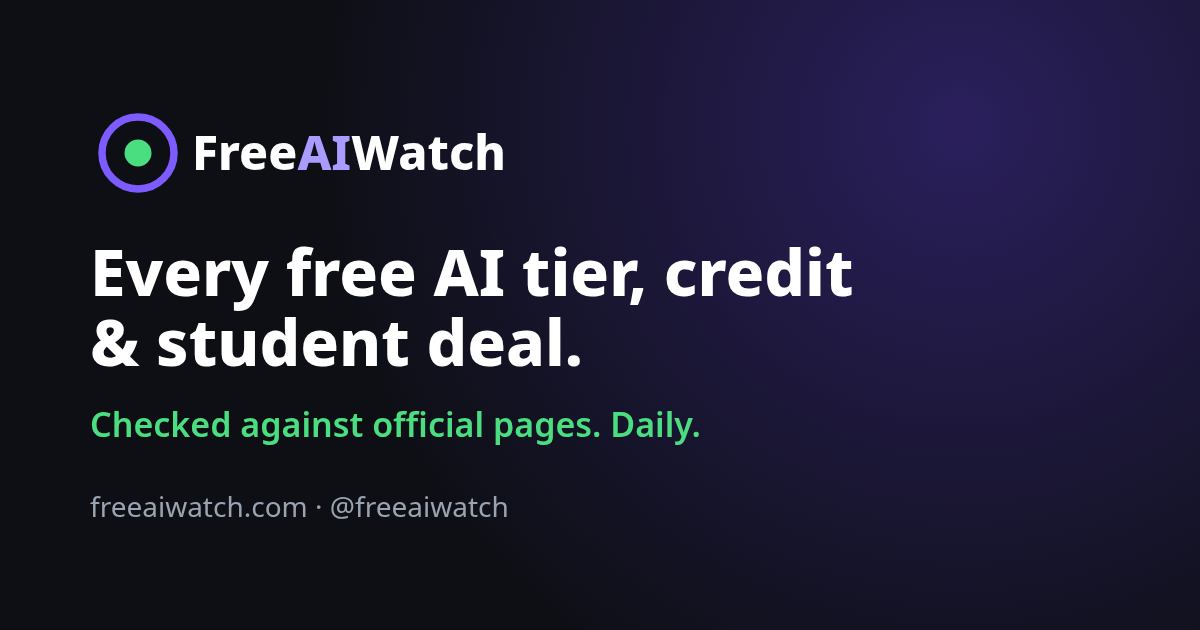
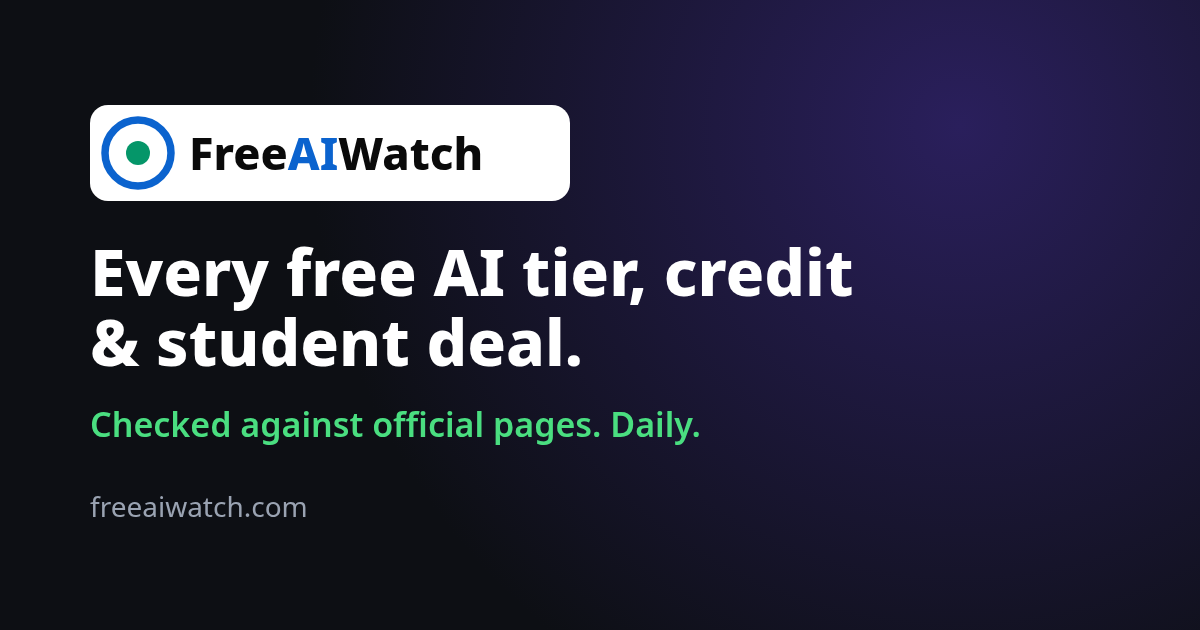
Sponsor click tracking (/go/[slug], /api/admin/clicks, click_report.py), founding sponsor copy + prices, drop @freeaiwatch handle from meta/OG

Changed region(s): [[0.0617, 0.1508, 0.4933, 0.3317], [0.2775, 0.7841, 0.4317, 0.8444]]

diff --git a/sponsor.html b/sponsor.html
@@ -8,25 +8,33 @@
 <h3>Audience</h3>
 <div class="stats">
   <div class="stat"><span class="stat-label">Offers tracked</span><span class="stat-value" id="st-offers">—</span></div>
-  <div class="stat"><span class="stat-label">Monthly visitors</span><span class="stat-value">TBD</span></div>
-  <div class="stat"><span class="stat-label">Weekly digest subscribers</span><span class="stat-value">TBD</span></div>
+  <div class="stat"><span class="stat-label">Monthly visitors</span><span class="stat-value small">Publishing after our first full month of analytics</span></div>
+  <div class="stat"><span class="stat-label">Weekly digest subscribers</span><span class="stat-value small">Publishing once the digest starts sending</span></div>
 </div>
 <p class="muted small">We'll publish real traffic numbers once analytics have a full month of data. We won't show estimates in the meantime.</p>
 
+<h3>Founding sponsors</h3>
+<div class="card founding"><p class="eyebrow">Founding Sponsor Pack · 4 available · ends Nov 30, 2026</p>
+<p>We're new and don't have traffic numbers yet, so founding rates are low and backed by a click floor. You get 2 weeks in the Featured row and 1 week on the homepage banner. We write your copy, give you a tracked link and send a weekly click report. You also get one labeled sponsored post on our X deals feed, and a digest line if the digest is live during your run.</p>
+<p class="price"><b>$179</b> <span class="muted">(à la carte $207)</span></p>
+<p class="muted small">Founding rates are locked through May 31, 2027 if you rebook within 30 days.</p>
+<p class="small"><b>Click floor:</b> under 25 counted clicks in a Featured row week (15 for the banner) gets you an extra week free. If that week misses too, we refund the original week.</p></div>
+
 <h3>Slots</h3>
 <div class="tiers">
-  <div class="tier"><p class="eyebrow">Featured row</p><h4>Top of the offers table</h4><div class="preview"><span class="badge">Sponsored</span> <b>Your tool</b>: your free offer, one line</div><ul><li>Pinned above the verified list on the homepage</li><li>Marked “Sponsored”. Your offer still has to be real and checkable</li><li>One sponsor at a time</li></ul><p class="price">Price: <b>TBD</b> / week</p></div>
-  <div class="tier"><p class="eyebrow">Homepage banner</p><h4>Banner under the header</h4><div class="preview banner-prev">⭐ <b>Your brand</b>: a short pitch and a link</div><ul><li>Shown on every page load of the homepage</li><li>Your link, tagged with utm_source=freeaiwatch</li><li>One sponsor at a time</li></ul><p class="price">Price: <b>TBD</b> / week</p></div>
-  <div class="tier"><p class="eyebrow">Weekly digest</p><h4>“Sponsored by” in the email</h4><div class="preview">Sponsored by <b>Your brand</b>: your pitch</div><ul><li>One line at the top of the weekly roundup</li><li>Goes to every subscriber that week</li><li>Available once the digest starts sending</li></ul><p class="price">Price: <b>TBD</b> / issue</p></div>
+  <div class="tier"><p class="eyebrow">Featured row</p><h4>Top of the offers table</h4><div class="preview"><span class="badge">Sponsored</span> <b>Your tool</b>: your free offer, one line</div><ul><li>Pinned above the verified list on the homepage</li><li>Marked “Sponsored”. Your offer still has to be real and checkable</li><li>One sponsor at a time</li></ul><p class="price">Founding rate: <b>$79</b> / week</p></div>
+  <div class="tier"><p class="eyebrow">Homepage banner</p><h4>Banner under the header</h4><div class="preview banner-prev">⭐ <b>Your brand</b>: a short pitch and a link</div><ul><li>Shown on every page load of the homepage</li><li>Your link, tagged with utm_source=freeaiwatch</li><li>One sponsor at a time</li></ul><p class="price">Founding rate: <b>$49</b> / week</p></div>
+  <div class="tier"><p class="eyebrow">Weekly digest</p><h4>“Sponsored by” in the email</h4><div class="preview">Sponsored by <b>Your brand</b>: your pitch</div><ul><li>One line at the top of the weekly roundup</li><li>Goes to every subscriber that week</li><li>Available once the digest starts sending</li></ul><p class="price">Not on sale until the digest sends. Included free in Founding Packs</p></div>
 </div>
-<p class="muted small">Sponsorship never changes rankings, verification status or the “not stated” labels. Prices are placeholders until launch.</p>
+<p class="muted small">Sponsorship never changes rankings, verification status or the “not stated” labels. Founding rates apply to bookings made by Nov 30, 2026. After that, pricing is based on published traffic.</p>
 
 <h3>Request a slot</h3>
+<p class="muted small">This form is the way to reach us about sponsorship. We reply to the contact email you enter.</p>
 <form class="card form" data-endpoint="/api/sponsor" novalidate>
   <div class="row2"><label>Company <span class="req">*</span><input name="company" required maxlength="120"></label>
   <label>Website <span class="req">*</span><input name="website" required maxlength="300" placeholder="https://"></label></div>
   <label>Contact email <span class="req">*</span><input name="email" type="email" required maxlength="254"></label>
-  <div class="row2"><label>Slot interest<select name="slot"><option value="not_sure">Not sure yet</option><option value="featured_row">Featured row</option><option value="homepage_banner">Homepage banner</option><option value="weekly_digest">Weekly digest</option></select></label>
+  <div class="row2"><label>Slot interest<select name="slot"><option value="founding_pack">Founding Sponsor Pack</option><option value="not_sure">Not sure yet</option><option value="featured_row">Featured row</option><option value="homepage_banner">Homepage banner</option><option value="weekly_digest">Weekly digest</option></select></label>
   <label>Budget<select name="budget"><option value="not_sure">Not sure yet</option><option value="under_100">Under $100</option><option value="100_300">$100–$300</option><option value="300_1000">$300–$1,000</option><option value="1000_plus">$1,000+</option></select></label></div>
   <label>Message<textarea name="message" rows="4" maxlength="2000" placeholder="What you'd like to promote and when"></textarea></label>
   <label class="hp" aria-hidden="true">Leave blank<input name="website_hp" tabindex="-1" autocomplete="off"></label>

diff --git a/functions/go/[slug].js b/functions/go/[slug].js
@@ -1,0 +1,32 @@
+// Sponsor click redirect: /go/<slug>?m=row|banner|x|digest → sponsor URL + UTMs (302).
+// Counts at most one click per visitor per day per sponsor. Visitor = SHA-256(daily random salt + IP + UA); raw IP never stored.
+import cfg from "../../config/sponsors.json";
+const MEDIA = ["row", "banner", "x", "digest"];
+const BOT = /bot|crawl|spider|slurp|preview|facebookexternalhit|embedly|curl|wget|python|httpclient|headless|monitor|lighthouse|scan|fetch/i;
+const hex = (buf) => [...new Uint8Array(buf)].map((b) => b.toString(16).padStart(2, "0")).join("");
+export async function onRequestGet({ request, env, params }) {
+  const slug = String(params.slug || "").toLowerCase();
+  const s = /^[a-z0-9-]{1,60}$/.test(slug) && (cfg.sponsors || {})[slug];
+  if (!s || s.active === false || !/^https:\/\//.test(s.url || "")) return new Response("Not found", { status: 404, headers: { "Cache-Control": "no-store" } });
+  const u = new URL(request.url); const m = MEDIA.includes(u.searchParams.get("m")) ? u.searchParams.get("m") : "row";
+  const dest = new URL(s.url);
+  dest.searchParams.set("utm_source", "freeaiwatch"); dest.searchParams.set("utm_medium", m); dest.searchParams.set("utm_campaign", "founding-" + slug);
+  const ua = request.headers.get("user-agent") || "";
+  if (env.SUBSCRIBERS && ua && !BOT.test(ua) && request.method === "GET") {
+    try {
+      const day = new Date().toISOString().slice(0, 10), KV = env.SUBSCRIBERS;
+      let salt = await KV.get("click:salt:" + day);
+      if (!salt) { salt = hex(crypto.getRandomValues(new Uint8Array(16))); await KV.put("click:salt:" + day, salt, { expirationTtl: 172800 }); }
+      const ip = request.headers.get("cf-connecting-ip") || "";
+      const vid = hex(await crypto.subtle.digest("SHA-256", new TextEncoder().encode(salt + "|" + ip + "|" + ua))).slice(0, 32);
+      const seen = `click:seen:${day}:${slug}:${vid}`;
+      if (!(await KV.get(seen))) {
+        await KV.put(seen, "1", { expirationTtl: 172800 });
+        const ck = `click:count:${day}:${slug}:${m}`;
+        await KV.put(ck, String((parseInt(await KV.get(ck) || "0", 10) || 0) + 1));
+      }
+    } catch (e) { /* counting must never block the redirect */ }
+  }
+  return new Response(null, { status: 302, headers: { Location: dest.toString(), "Cache-Control": "no-store", "Referrer-Policy": "no-referrer-when-downgrade" } });
+}
+export const onRequest = () => new Response("Method not allowed", { status: 405 });

diff --git a/functions/api/admin/clicks.js b/functions/api/admin/clicks.js
@@ -1,0 +1,25 @@
+// Owner-only click counts. Disabled (403) unless the ADMIN_TOKEN secret is set. See docs/CLICKS.md.
+// GET /api/admin/clicks?slug=<optional>&since=YYYY-MM-DD  → {ok, rows:[{day,slug,medium,clicks}]}
+// DELETE /api/admin/clicks?slug=<slug>  → removes that sponsor's count keys (e.g. the test slug)
+const json = (o, s = 200) => new Response(JSON.stringify(o), { status: s, headers: { "Content-Type": "application/json", "Cache-Control": "no-store" } });
+function authed(req, env) {
+  if (!env.ADMIN_TOKEN || env.ADMIN_TOKEN.length < 24) return false;
+  const a = new TextEncoder().encode(req.headers.get("authorization") || ""), b = new TextEncoder().encode("Bearer " + env.ADMIN_TOKEN);
+  if (a.length !== b.length) return false; let d = 0; for (let i = 0; i < a.length; i++) d |= a[i] ^ b[i]; return d === 0;
+}
+async function keys(env) { const out = []; let cursor; do { const r = await env.SUBSCRIBERS.list({ prefix: "click:count:", cursor }); out.push(...r.keys.map((k) => k.name)); cursor = r.list_complete ? null : r.cursor; } while (cursor); return out; }
+export async function onRequest({ request, env }) {
+  if (!authed(request, env)) return json({ ok: false, error: "Forbidden" }, 403);
+  if (!env.SUBSCRIBERS) return json({ ok: false, error: "KV not bound" }, 503);
+  const u = new URL(request.url), slug = u.searchParams.get("slug"), since = u.searchParams.get("since") || "0000";
+  const rows = [];
+  for (const k of await keys(env)) {
+    const [, , day, s, medium] = k.split(":");
+    if ((slug && s !== slug) || day < since) continue;
+    if (request.method === "DELETE") { if (slug) { await env.SUBSCRIBERS.delete(k); rows.push({ deleted: k }); } continue; }
+    rows.push({ day, slug: s, medium, clicks: parseInt(await env.SUBSCRIBERS.get(k) || "0", 10) });
+  }
+  if (request.method === "DELETE" && !slug) return json({ ok: false, error: "slug required" }, 400);
+  if (!["GET", "DELETE"].includes(request.method)) return json({ ok: false, error: "Method not allowed" }, 405);
+  rows.sort((a, b) => (a.day || "").localeCompare(b.day || "")); return json({ ok: true, rows });
+}

diff --git a/index.html b/index.html
@@ -4,7 +4,7 @@
 <link rel="icon" href="/site/favicon.svg" type="image/svg+xml"><link rel="canonical" href="https://freeaiwatch.com/">
 <meta property="og:type" content="website"><meta property="og:url" content="https://freeaiwatch.com/"><meta property="og:title" content="FreeAIWatch — free AI, checked daily">
 <meta property="og:description" content="Every free AI tier, API credit and student deal, verified against official pages and re-checked daily."><meta property="og:image" content="https://freeaiwatch.com/site/og.png">
-<meta name="twitter:card" content="summary_large_image"><meta name="twitter:site" content="@freeaiwatch"><meta name="twitter:image" content="https://freeaiwatch.com/site/og.png"><link rel="preconnect" href="https://fonts.googleapis.com"><link rel="preconnect" href="https://fonts.gstatic.com" crossorigin><link rel="stylesheet" href="https://fonts.googleapis.com/css2?family=Funnel+Sans:wght@400;500;600;700&family=Geist+Mono:wght@400;500;600&display=swap"><link rel="stylesheet" href="/site/style.css"></head><body>
+<meta name="twitter:card" content="summary_large_image"><meta name="twitter:image" content="https://freeaiwatch.com/site/og.png"><link rel="preconnect" href="https://fonts.googleapis.com"><link rel="preconnect" href="https://fonts.gstatic.com" crossorigin><link rel="stylesheet" href="https://fonts.googleapis.com/css2?family=Funnel+Sans:wght@400;500;600;700&family=Geist+Mono:wght@400;500;600&display=swap"><link rel="stylesheet" href="/site/style.css"></head><body>
 <header><h1><img src="/site/logo.svg" alt="FreeAIWatch" height="48"></h1><p>Every free AI tier, credit and student deal — verified against official pages, re-checked daily.</p>
 <nav><a href="#all" class="on">All offers</a><a href="#today">Today</a><a href="#ending">Ending soon</a><a href="/compare">Compare</a><a href="/blog">Blog</a><a href="/submit">Submit a deal</a><a href="/sponsor">Sponsor</a></nav></header>
 <aside class="sponsor-slot">⭐ <b>Your free offer here.</b> One featured slot, clearly labeled “Sponsored”. <a href="/sponsor">Sponsor this spot →</a></aside>

diff --git a/functions/api/sponsor.js b/functions/api/sponsor.js
@@ -1,7 +1,7 @@
 // POST /api/sponsor — sponsor inquiries, stored as PENDING in KV (SUBSCRIBERS binding, prefix "sponsor:"). Never published.
 const json = (o, s = 200) => new Response(JSON.stringify(o), { status: s, headers: { "Content-Type": "application/json", "Cache-Control": "no-store" } });
 const EMAIL_RE = /^[^\s@<>()[\]\\,;:"]{1,64}@[A-Za-z0-9](?:[A-Za-z0-9-]{0,61}[A-Za-z0-9])?(?:\.[A-Za-z0-9](?:[A-Za-z0-9-]{0,61}[A-Za-z0-9])?)+$/;
-const SLOTS = ["featured_row", "homepage_banner", "weekly_digest", "not_sure"];
+const SLOTS = ["founding_pack", "featured_row", "homepage_banner", "weekly_digest", "not_sure"];
 const BUDGETS = ["under_100", "100_300", "300_1000", "1000_plus", "not_sure"];
 const clean = (v, max) => String(v ?? "").replace(/[\u0000-\u0008\u000B\u000C\u000E-\u001F\u007F]/g, "").trim().slice(0, max);
 async function body(req) { const ct = req.headers.get("content-type") || ""; if (ct.includes("json")) return req.json().catch(() => ({})); if (ct.includes("form")) return Object.fromEntries(await req.formData()); return {}; }

diff --git a/site/style.css b/site/style.css
@@ -45,3 +45,4 @@ article{max-width:720px}article h1{font-size:34px;letter-spacing:-.02em;line-hei
 .tiers{display:grid;grid-template-columns:repeat(auto-fit,minmax(230px,1fr));gap:12px}.tier{background:var(--surface);border:1px solid var(--border);border-radius:12px;padding:16px;box-shadow:var(--shadow)}.tier .eyebrow{margin:0 0 4px}
 .tier ul{padding-left:18px;font-size:14px;color:var(--muted)}.tier li{margin:4px 0}.preview{font-size:13px;background:var(--surface-2);border:1px solid var(--border);border-radius:8px;padding:10px 12px}.preview .badge{margin-left:0}
 .banner-prev{background:var(--sponsor-bg);border:1px dashed var(--sponsor-border)}.price{font-family:"Geist Mono",ui-monospace,monospace;font-size:13px;margin:8px 0 0}.footer-links a{margin-right:14px}
+.stat-value.small{font-size:14px;font-weight:500;line-height:1.35}.founding .price b{font-size:22px}

diff --git a/site/og.html b/site/og.html
@@ -2,4 +2,4 @@
 <img src="logo.svg" style="height:96px;width:auto;align-self:flex-start">
 <div style="font-size:64px;font-weight:800;line-height:1.1;margin-top:36px">Every free AI tier, credit<br>&amp; student deal.</div>
 <div style="font-size:34px;color:#4ade80;margin-top:24px;font-weight:600">Checked against official pages. Daily.</div>
-<div style="font-size:28px;color:#9aa3b2;margin-top:40px">freeaiwatch.com · @freeaiwatch</div></body></html>
+<div style="font-size:28px;color:#9aa3b2;margin-top:40px">freeaiwatch.com</div></body></html>

diff --git a/scripts/click_report.py b/scripts/click_report.py
@@ -1,0 +1,24 @@
+#!/usr/bin/env python3
+"""Print sponsor clicks by day (for the weekly sponsor report).
+Usage: FAW_ADMIN_TOKEN=... python scripts/click_report.py [--slug S] [--since YYYY-MM-DD] [--delete-slug S]
+Needs the ADMIN_TOKEN secret set on the Pages project (see docs/CLICKS.md)."""
+import argparse, json, os, sys, urllib.request, urllib.parse
+from collections import defaultdict
+API = os.environ.get("FAW_CLICKS_API", "https://freeaiwatch.com/api/admin/clicks")
+a = argparse.ArgumentParser(); a.add_argument("--slug"); a.add_argument("--since"); a.add_argument("--delete-slug"); o = a.parse_args()
+tok = os.environ.get("FAW_ADMIN_TOKEN")
+if not tok: sys.exit("FAW_ADMIN_TOKEN not set. Set the ADMIN_TOKEN secret on Pages first (docs/CLICKS.md).")
+q = {k: v for k, v in (("slug", o.delete_slug or o.slug), ("since", o.since)) if v}
+req = urllib.request.Request(API + ("?" + urllib.parse.urlencode(q) if q else ""), method="DELETE" if o.delete_slug else "GET",
+                             headers={"Authorization": "Bearer " + tok, "User-Agent": "faw-click-report"})
+try: d = json.load(urllib.request.urlopen(req, timeout=30))
+except urllib.error.HTTPError as e: sys.exit(f"HTTP {e.code}: {e.read()[:200]!r}")
+if o.delete_slug: print(f"deleted {len(d.get('rows', []))} keys"); sys.exit()
+t = defaultdict(lambda: defaultdict(lambda: defaultdict(int)))
+for r in d.get("rows", []): t[r["slug"]][r["day"]][r["medium"]] += r["clicks"]
+if not t: print("No clicks recorded."); sys.exit()
+for slug, days in sorted(t.items()):
+    print(f"\n== {slug} ==  total {sum(sum(m.values()) for m in days.values())}")
+    print(f"{'day':<12}{'row':>6}{'banner':>8}{'x':>5}{'digest':>8}{'total':>7}")
+    for day, m in sorted(days.items()):
+        print(f"{day:<12}{m['row']:>6}{m['banner']:>8}{m['x']:>5}{m['digest']:>8}{sum(m.values()):>7}")

diff --git a/scripts/build_site.py b/scripts/build_site.py
@@ -15,7 +15,7 @@ def head(title, desc, path):
     return (f'<!doctype html><html lang="en"><head><meta charset="utf-8">'+THEME_HEAD+f'<meta name="viewport" content="width=device-width,initial-scale=1"><title>{t}</title>'
             f'<meta name="description" content="{d}"><link rel="icon" href="/site/favicon.svg" type="image/svg+xml"><link rel="canonical" href="https://freeaiwatch.com{path}">'
             f'<meta property="og:type" content="website"><meta property="og:url" content="https://freeaiwatch.com{path}"><meta property="og:title" content="{t}"><meta property="og:description" content="{d}">'
-            f'<meta property="og:image" content="https://freeaiwatch.com/site/og.png"><meta name="twitter:card" content="summary_large_image"><meta name="twitter:site" content="@freeaiwatch">'
+            f'<meta property="og:image" content="https://freeaiwatch.com/site/og.png"><meta name="twitter:card" content="summary_large_image">'
             f'<link rel="preconnect" href="https://fonts.googleapis.com"><link rel="preconnect" href="https://fonts.gstatic.com" crossorigin><link rel="stylesheet" href="https://fonts.googleapis.com/css2?family=Funnel+Sans:wght@400;500;600;700&family=Geist+Mono:wght@400;500;600&display=swap"><link rel="stylesheet" href="/site/style.css"></head><body>')
 def header(active):
     links = [("/#all", "All offers", "all"), ("/#today", "Today", "today"), ("/#ending", "Ending soon", "ending"), ("/compare", "Compare", "compare"), ("/blog", "Blog", "blog"), ("/submit", "Submit a deal", "submit"), ("/sponsor", "Sponsor", "sponsor")]

diff --git a/docs/CLICKS.md b/docs/CLICKS.md
@@ -1,0 +1,21 @@
+# Sponsor click tracking
+
+**Tracked link:** `https://freeaiwatch.com/go/<slug>?m=row|banner|x|digest`
+- The slug is looked up in `config/sponsors.json` (`sponsors.<slug>.url`, which must be https, and `active`). Unknown or inactive slugs return 404.
+- Redirect: 302 to the URL with `utm_source=freeaiwatch&utm_medium=<m>&utm_campaign=founding-<slug>`. An unknown or missing `m` defaults to `row`.
+- Adding a sponsor: add an entry under `sponsors`, then commit and push. The config is bundled into the function at deploy time.
+
+## Counting rules (these are the "counted clicks" behind the click floor)
+- At most one click per visitor, per sponsor, per UTC day. The visitor ID is SHA-256(daily random salt + IP + user agent), truncated. The salt is random per day and expires after 48h, so IDs can't be linked across days. Raw IPs and user agents are never stored.
+- Skipped: requests with an empty user agent or an obvious bot/tool user agent (bot, crawl, spider, preview, curl, wget, python, headless, …).
+- KV keys (SUBSCRIBERS namespace): `click:count:<day>:<slug>:<medium>` holds the count; `click:seen:…` and `click:salt:…` expire after 48h.
+- A counting failure never blocks the redirect.
+
+## Reading counts
+The endpoint is `/api/admin/clicks` (GET, or DELETE with `?slug=`). It returns **403 until `ADMIN_TOKEN` is set**.
+1. Set the token: Cloudflare dashboard → Workers & Pages → freeaiwatch → Settings → Variables and Secrets → Add → type *Secret*, name `ADMIN_TOKEN`, value: a random string of 24+ characters (e.g. `python3 -c "import secrets;print(secrets.token_urlsafe(32))"`). Then redeploy (push or re-run the workflow). Or use `npx wrangler pages secret put ADMIN_TOKEN --project-name=freeaiwatch`.
+2. `FAW_ADMIN_TOKEN=<token> python scripts/click_report.py [--slug acme] [--since 2026-11-01]`
+3. To remove a sponsor's counts: `python scripts/click_report.py --delete-slug <slug>`.
+
+## Test slug
+`test-sponsor` (→ https://example.com/) was added to prove the redirect live and then removed from the config. The live tests used a `curl` user agent, which is on the bot list, so no counts should exist for it. If any do, run `--delete-slug test-sponsor` once the token is set.
